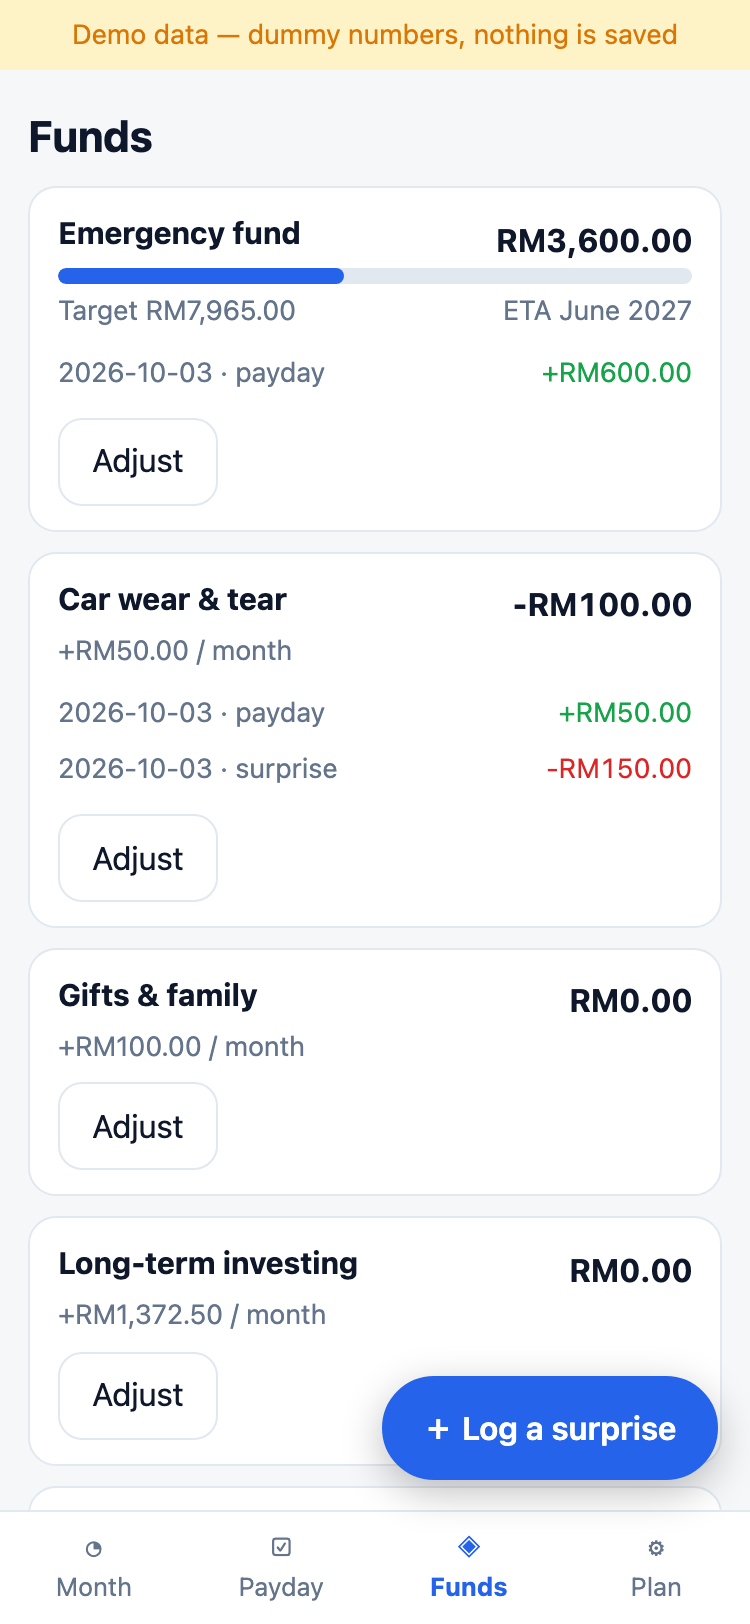
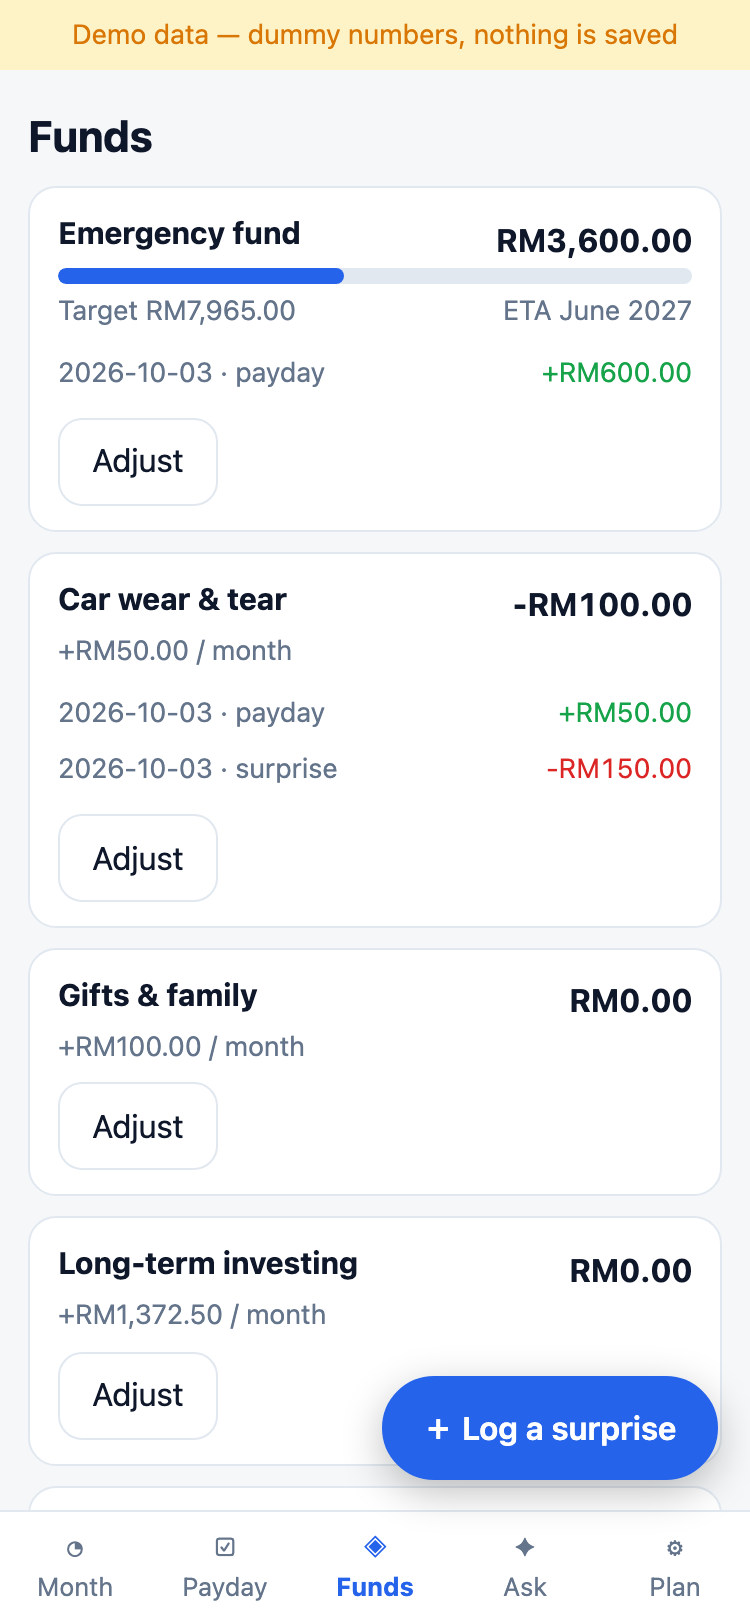
Docs: Ask + connector results and morning steps

diff --git a/src/storage/github.ts b/src/storage/github.ts
@@ -56,7 +56,7 @@ export class GitHubClient {
     const res = await this.call(this.url(path));
     if (res.status === 404) return null;
     if (!res.ok) throw new Error(`GitHub said ${res.status}`);
-    const j = await res.json();
+    const j = (await res.json()) as any;
     return { content: fromBase64(j.content), sha: j.sha };
   }
 
@@ -65,7 +65,7 @@ export class GitHubClient {
     const res = await this.call(this.url(dir));
     if (res.status === 404) return [];
     if (!res.ok) throw new Error(`GitHub said ${res.status}`);
-    const j = await res.json();
+    const j = (await res.json()) as any;
     return Array.isArray(j) ? j.filter((f: any) => f.type === 'file') : [];
   }
 
@@ -76,7 +76,7 @@ export class GitHubClient {
     });
     if (res.status === 409 || res.status === 422) throw new ConflictError();
     if (!res.ok) throw new Error(`GitHub said ${res.status}`);
-    const j = await res.json();
+    const j = (await res.json()) as any;
     return j.content.sha;
   }
 

diff --git a/MORNING.md b/MORNING.md
@@ -34,3 +34,63 @@
 
 - One real emergency-fund balance figure sits in an early commit of the public `money-tracker` repo history (a test number; fixed in the current code). Removing it needs a history rewrite and force-push, which was blocked, so I left it. Details in `SETUP-REPORT.md`.
 - The test token was only used from the environment during the check, never stored; browser storage was cleared afterwards.
+
+---
+
+# Update 1: Ask chat and Claude app connector
+
+## What was built and checked
+
+**Ask tab (live now, needs your API key):** a 5th tab. Claude Sonnet 5.5 at medium effort answers from your real plan, funds, months and health checks, using tools to look things up. It can propose changes (log a surprise, change a rule, move money between funds, tick a payday item, record income, add a note). Each shows a before/after card with **Apply** / **Dismiss**, and **Undo** after applying. Chats are saved to `money-data/chats/`. Cost is shown under each answer, and there is a monthly cap (default US$5).
+
+| Check | Result |
+|---|---|
+| Unit tests (snapshot has no secrets and is far under 60k tokens, every tool, apply/undo, balanced-plan rule, cost maths, SSE parsing, tool loop) | PASS (50 in the app) |
+| Browser flow at 375×812 with a mocked AI: quick prompt → tool chip → answer → proposal card → Apply changes Funds → Undo restores | PASS |
+| Send is disabled offline; no horizontal scroll at 360px; no CSP violations | PASS |
+| Live regression of the original app (connect, tick, surprise, offline) after the update | PASS |
+| Live call to the Claude API | **Not run**: no `ANTHROPIC_API_KEY` on this Mac (never asked for one) |
+| `?demo=1` Ask uses a canned conversation | yes, no real data on the public site |
+
+**Claude app connector (built, tested, NOT deployed):** repo `Yoomom/money-mcp` (private). Tested at the MCP protocol level against an in-memory repo (6 tests: tools list, reads, direct writes with `claude-app:` commits, undo, balance rule, sha-conflict retry, owner-only check). `wrangler dev` showed the OAuth discovery, client registration and consent page working, and `wrangler deploy --dry-run` bundles. `wrangler whoami` said not logged in, so it stops here.
+
+## Your steps
+
+### 1. Ask tab (about 3 minutes)
+1. Go to platform.claude.com → create a workspace named `money-tracker` → set a monthly spend limit (US$10 suggested) → add credits → create an API key in that workspace.
+2. In the app: **Ask** tab (or Plan → Ask (Claude)) → paste the key → **Test**.
+The key stays on your phone only. Each phone/browser needs it once. This is pay-per-use API billing, separate from your Claude subscription.
+
+### 2. Claude app connector (about 10 minutes, optional)
+In a terminal on the Mac, in `~/Repositories/Financial Planner/money-mcp`:
+1. `npx wrangler login`
+2. `npx wrangler deploy`. Note the URL `https://money-mcp.<your-subdomain>.workers.dev`.
+3. GitHub → Settings → Developer settings → OAuth Apps → New OAuth App. Homepage = the Worker URL. Authorization callback URL = `<Worker URL>/callback`. Copy the Client ID, generate a Client secret.
+4. `npx wrangler secret put GITHUB_CLIENT_ID` then `npx wrangler secret put GITHUB_CLIENT_SECRET` (paste when asked).
+5. Create a second fine-grained token the same way as the phone one (only `money-data`, Contents: read and write), then `npx wrangler secret put GITHUB_TOKEN`.
+6. In Claude (web, desktop or phone): Settings → Connectors → **Add custom connector** → paste `<Worker URL>/mcp` → sign in with GitHub as `yoomom`. Anyone else is rejected.
+7. Create a Claude **Project** called "Money coach", enable the Money Tracker connector in it, and paste this as the project instructions:
+
+~~~
+You are Shaq's money coach. His money tracker is connected as the "Money Tracker" connector. Currency is Malaysian ringgit (RM). Think in a Malaysian context: EPF, ASB/ASNB, PTPTN, LHDN reliefs.
+
+How he manages money (the tracker already encodes this):
+- Every ringgit has a job: the plan sums to take-home and one "remainder" item absorbs the difference.
+- Sinking funds come before ASB. The emergency fund target is efTargetMonths x fixed needs. Real emergencies only, refilled next month.
+- Creator and freelance income follows Profit First after giving: owner pay 50%, opex 30%, tax 15%, profit 5%.
+- Giving is a fixed % of income, done first.
+- Before any quit or go-full-time decision: runway of 12+ months of costs and creator income at 60%+ of take-home for 6 straight months. The quit gate is informational, never a verdict.
+- Every big surprise expense records where the money came from.
+
+How to answer:
+- Start with get_overview, then use the other tools for detail. Use only numbers from tool results. If something is missing, say so and ask. Never invent balances or dates.
+- For affordability questions, use simulate_purchase and show the maths: which fund pays, balance before and after, emergency-fund months, any health check that changes.
+- For spending or life decisions, also ask briefly about context the numbers cannot show (upcoming expenses, cash-flow timing, plans). Give a clear recommendation, then the question.
+- Keep it concise: short paragraphs, small tables only when comparing.
+- Write tools (log_surprise, update_item_rule, move_between_funds, and so on) save to his data straight away after the Claude app's approval prompt. Say what you are about to change before calling one, and mention undo_last_change exists. Do not make changes he did not ask for.
+- You are not a licensed financial adviser. Say so once per thread, only when giving investment-type views.
+~~~
+
+## Needs your attention
+- Ask and the connector both write to `money-data`. Commit messages start with `chat:` (website) and `claude-app:` (connector), so you can tell them apart in the repo history.
+- The earlier note about one real balance figure in the public repo's early history still stands (see above).

diff --git a/SETUP-REPORT.md b/SETUP-REPORT.md
@@ -17,3 +17,22 @@ Decisions taken without asking, and why.
 ## Needs your decision
 
 - **History rewrite was blocked.** While pushing the first commits I noticed one test line in an early commit of the public repo used a real emergency-fund balance as a test number. It is already replaced in the latest code, but it remains in the earlier commit's history. Rewriting history needs a force-push, which the safety layer denied, so I left it. It is a single balance figure with no name or account attached. If you want it gone: delete and recreate `money-tracker` (it has no data, only code), or ask Claude Code to rewrite history with your explicit OK.
+
+## Update 1: Ask chat (Phase 8) and Claude app connector (Phase 9)
+
+| Decision | Why |
+|---|---|
+| `output_config.effort` confirmed valid for `claude-sonnet-5-5` in the current docs, so it is sent as specified (default `medium`). The client retries once without it if the API ever rejects it. | Spec 2.2 |
+| `max_tokens` is 8000, not 4000 | Thinking tokens count toward `max_tokens`; 4000 could cut an answer short |
+| Thinking blocks are kept and sent back unchanged in tool loops | The API requires it when thinking is on |
+| Screens live in `src/ui/` (matching the existing app), not `src/screens/` | Consistency with phases 1–7 |
+| Chats are saved to `money-data/chats/YYYY-MM.json` through the same autosave/sha-retry store as other data | Spec 2.6 |
+| Undo restores the files a change touched. Shown straight away, with a confirm after 30 s | Spec 2.5 |
+| `index.html` has a Content-Security-Policy: `connect-src` allows only `api.github.com` and `api.anthropic.com` | Spec 2.8; verified in the browser (no violations) |
+| Live Anthropic smoke test skipped | `ANTHROPIC_API_KEY` is not set on this Mac and must never be asked for |
+| Phase 9 built and tested, **not deployed** | `wrangler whoami`: not authenticated |
+| The Cloudflare template flag did not apply (it produced a hello-world Worker), so the connector was written directly on `workers-oauth-provider` 1.2.1 + `agents` (McpAgent) with the same OAuth shape as the template | Offline-safe, tested at protocol level |
+| Only `/mcp` (streamable HTTP) is served, no `/sse` | The OAuth library requires every protected route to sit under the canonical resource path |
+| The OAuth provider is built per origin on first request | The public workers.dev URL is not known until you deploy |
+| Connector access is limited to GitHub login `yoomom` twice: at the OAuth callback and again when tools are registered | Spec 3 |
+| `money-mcp` has its own copy of the shared code under `src/shared/` (`npm run sync` refreshes it) | Spec 3 "copied or shared" |

diff --git a/CLAUDE.md b/CLAUDE.md
@@ -7,6 +7,7 @@ Phone-first PWA: "Am I on track this month?" Vite + React + TS. Data lives in a 
 - `npm test` — Vitest (domain logic, importer)
 - `npm run build` — typecheck + production build
 - `npm run lint`
+- `node scripts/e2e-ask.mjs` — Ask flow against `vite preview` (demo mode, mock AI)
 - `GH_TOKEN=$(gh auth token) node scripts/e2e.mjs` — live Playwright check + demo screenshots
 - `npm run make-fixtures` — regenerate dummy xlsx fixtures
 - `npm run import -- <file.xlsx>` — run the importer in Node, writes JSON to ./out/ (git-ignored)
